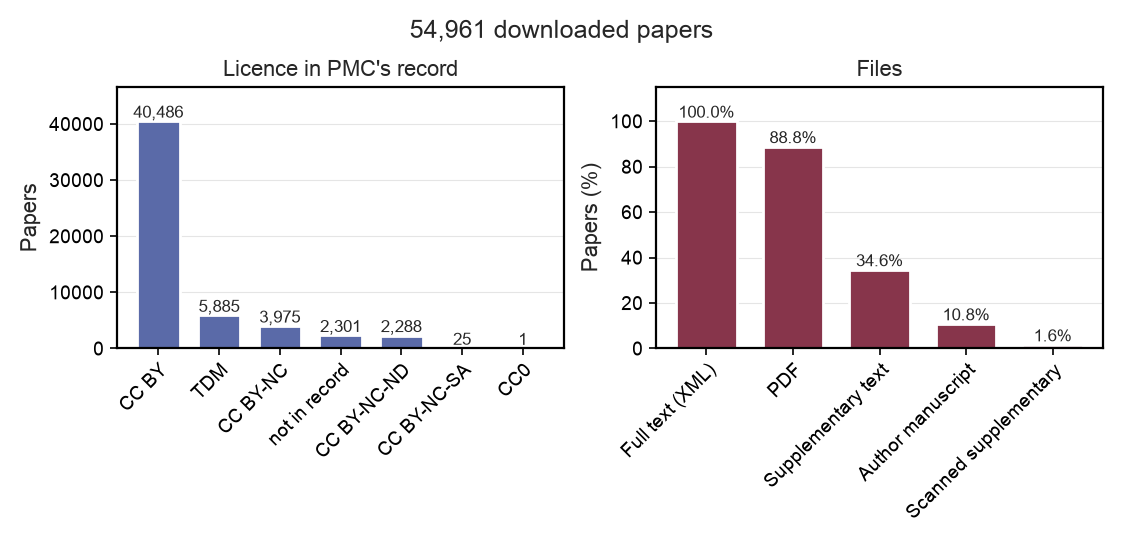
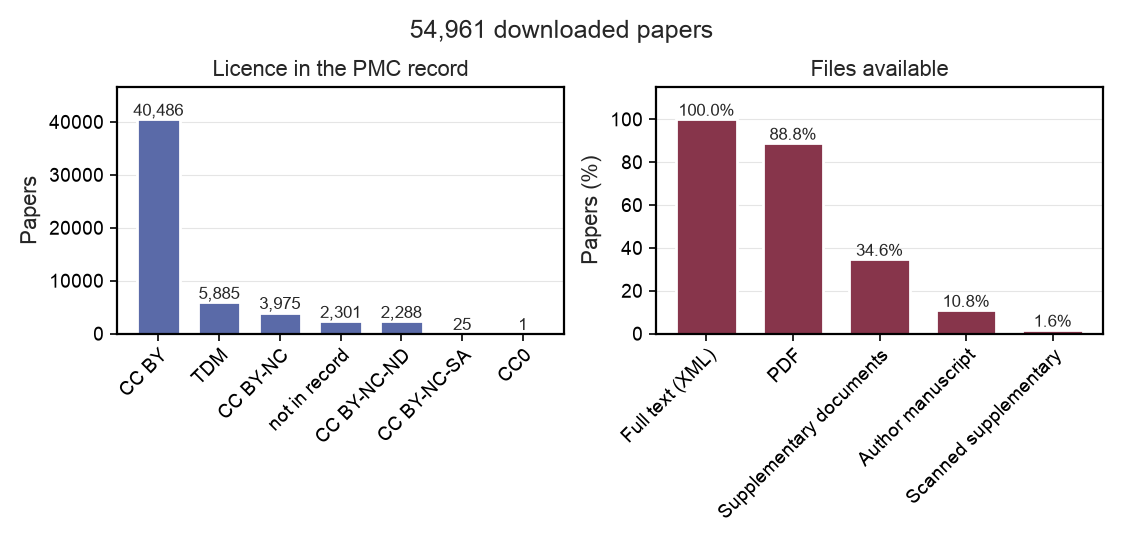
Updates

diff --git a/src/viz/templates/base.html b/src/viz/templates/base.html
@@ -26,7 +26,7 @@
       {% block body %}{% endblock %}
     </main>
     <footer>
-      <span>Made for OSI Hackathon 2026. Publisher structures, schemes and text via PubMed Central. CSD refcodes provide identifier links only.</span>
+      <span>Made for OSI Hackathon 2026.</span>
       <a class="github"
          href="https://github.com/alstonlo/clari-data-osi-hack"
          aria-label="TEXtal on GitHub"

diff --git a/scripts/analysis/s0_paper_plots.py b/scripts/analysis/s0_paper_plots.py
@@ -1,11 +1,12 @@
 import pathlib
+import textwrap
 
 import matplotlib.pyplot as plt
 import numpy as np
 import polars as pl
 from jsonargparse import auto_cli
 
-from dataset.csd import ACTA_E, merge_acta_e, nlm_abbrevs
+from dataset.csd import JOURNAL_NAMES, merge_acta_e
 from dataset.paths import DATA_DIR, REPO_ROOT
 from viz import theme
 
@@ -15,7 +16,7 @@ PLOTS = ["years", "downloads"]
 def main(
     papers: str = str(DATA_DIR / "papers"),
     out: str = str(REPO_ROOT / "assets"),
-    first_year: int = 2000,
+    first_year: int = 2008,
 ):
     """Plots the figures of the README, from `<papers>/metadata.parquet` and `parsed.parquet`.
 
@@ -23,13 +24,13 @@ def main(
     stacked by journal, and the licences and files of the downloaded papers.
 
     Args:
-        papers: The papers folder, with `metadata.parquet`, `parsed.parquet` and `raw/`.
+        papers: The papers folder, with `metadata.parquet` and `parsed.parquet`.
         out: The folder to write the figures to.
         first_year: The first year of the papers-per-year figure.
     """
     papers, out = pathlib.Path(papers), pathlib.Path(out)
     out.mkdir(parents=True, exist_ok=True)
-    meta = pl.read_parquet(papers / "metadata.parquet")
+    meta = pl.read_parquet(papers / "metadata.parquet").filter(pl.col("error").is_null())
     parsed = pl.read_parquet(papers / "parsed.parquet")
     theme.apply()
 
@@ -38,7 +39,6 @@ def main(
     all_papers = meta.select(merge_acta_e(pl.col("journal")), "year")
     journals = all_papers.group_by("journal").len("papers")
     top5 = journals.sort("papers", "journal", descending=True).head(5)["journal"].to_list()
-    abbrevs = nlm_abbrevs(meta, [j for j in top5 if j != ACTA_E], papers / "raw")
     group = pl.when(pl.col("journal").is_in(top5)).then("journal").otherwise(pl.lit("Other"))
     by_year = all_papers.filter(pl.col("year") >= first_year).group_by("year", group=group).len()
     by_year = by_year.pivot("group", index="year", values="len").fill_null(0).sort("year")
@@ -46,28 +46,29 @@ def main(
     fig, ax = plt.subplots(figsize=(theme.WIDTH, 2.4), layout="constrained")
     bottom = np.zeros(len(years))
     for name, color in zip(top5 + ["Other"], theme.PALETTE[:5] + ["0.7"]):
-        label = abbrevs.get(name, name)
+        label = JOURNAL_NAMES[name] if name in top5 else "Other journals"
+        label = "\n".join(textwrap.wrap(label, 24))
         ax.bar(years, by_year[name].to_numpy(), bottom=bottom, color=color, width=0.8, label=label)
         bottom += by_year[name].to_numpy()
-    ax.set_xlabel("Year")
+    ax.set_xticks(years[::2])
+    ax.set_xlabel("Publication year")
     ax.set_ylabel("Papers")
     ax.grid(axis="y", lw=0.4, alpha=0.5)
     ax.legend(loc="upper left", bbox_to_anchor=(1, 1), fontsize=6)
     left_out = (meta["year"] < first_year).sum()
-    ax.set_title(f"Papers per year ({left_out:,} papers before {first_year} not shown)")
+    ax.set_title(f"{len(meta):,} papers by year ({left_out:,} before {first_year} not shown)")
     theme.save(fig, out / "years")
 
-    # The licence and the files of the downloaded papers; papers with an error have no folder.
-    ok = meta.filter(pl.col("error").is_null())
-    licenses = ok.group_by(license=pl.col("license").fill_null("not in record")).len("papers")
+    # The licence and the files of the downloaded papers.
+    licenses = meta.group_by(license=pl.col("license").fill_null("not in record")).len("papers")
     licenses = licenses.sort("papers", descending=True)
     files = {
         "Full text (XML)": pl.col("files").list.contains("paper.xml"),
         "PDF": pl.col("files").list.contains("paper.pdf"),
-        "Supplementary text": pl.col("supplementary_names").list.len() > 0,
+        "Supplementary documents": pl.col("supplementary_names").list.len() > 0,
         "Author manuscript": pl.col("is_manuscript"),
     }
-    shares = [100 * ok.select(has.mean()).item() for has in files.values()]
+    shares = [100 * meta.select(has.mean()).item() for has in files.values()]
     shares.append(100 * parsed.select((pl.col("needs_ocr").list.len() > 0).mean()).item())
     labels = list(files) + ["Scanned supplementary"]
 
@@ -77,18 +78,18 @@ def main(
         axes[0].text(i, c, f"{c:,}", ha="center", va="bottom", fontsize=6)
     axes[0].set_ylim(top=1.15 * licenses["papers"].max())
     axes[0].set_ylabel("Papers")
-    axes[0].set_title("Licence in PMC's record")
+    axes[0].set_title("Licence in the PMC record")
     axes[1].bar(labels, shares, color=theme.ROSEWOOD[1], width=0.7)
     for i, v in enumerate(shares):
         axes[1].text(i, v, f"{v:.1f}%", ha="center", va="bottom", fontsize=6)
     axes[1].set_ylim(0, 115)
     axes[1].set_ylabel("Papers (%)")
-    axes[1].set_title("Files")
+    axes[1].set_title("Files available")
     for ax in axes:
         ax.tick_params(axis="x", rotation=45)
         plt.setp(ax.get_xticklabels(), ha="right", rotation_mode="anchor")
         ax.grid(axis="y", lw=0.4, alpha=0.5)
-    fig.suptitle(f"{len(ok):,} downloaded papers")
+    fig.suptitle(f"{len(meta):,} downloaded papers")
     theme.save(fig, out / "downloads")
 
 

diff --git a/scripts/analysis/s0_extraction_plots.py b/scripts/analysis/s0_extraction_plots.py
@@ -6,23 +6,27 @@ import numpy as np
 import polars as pl
 from jsonargparse import auto_cli
 
-from dataset.csd import ACTA_E, merge_acta_e, nlm_abbrevs
+from dataset.csd import JOURNAL_NAMES, merge_acta_e
 from dataset.paths import DATA_DIR, REPO_ROOT
 from viz import theme
 
 PLOTS = ["extraction", "records"]
-FIELDS = [
-    "synthesis",
-    "crystallisation",
-    "characterisation",
-    "solid_form",
-    "purpose_and_properties",
-    "summary",
-    "other_notes",
-]
 
-# The two extraction runs, keyed by prompt version; `s0_paper_plots.py` has the same layout.
-RUNS = {"v2-actae-anchored-1": "Acta E (section excerpts)", "v2": "Other journals (full text)"}
+# The paragraphs of a record, named as the README names them (the columns spell them the British
+# way). The `summary` and `other_notes` columns are not topics of the paper, so they are left out.
+FIELDS = {
+    "synthesis": "synthesis",
+    "crystallisation": "crystallization",
+    "characterisation": "characterization",
+    "solid_form": "solid form",
+    "purpose_and_properties": "purpose and properties",
+}
+
+# The two extraction runs, keyed by prompt version, and what each read of its papers.
+RUNS = {
+    "v2-actae-anchored-1": "Acta E (experimental sections)",
+    "v2": "Other journals (full text)",
+}
 
 
 def main(
@@ -69,9 +73,7 @@ def main(
         pl.len().alias("papers"), pl.col("run").sum()
     )
     journals = journals.sort("papers", "journal", descending=True).head(top)
-    named = [j for j in journals["journal"] if j != ACTA_E]
-    abbrevs = nlm_abbrevs(meta, named, papers / "raw") | {ACTA_E: ACTA_E}
-    labels = ["\n".join(textwrap.wrap(abbrevs[j], 22)) for j in journals["journal"]][::-1]
+    labels = ["\n".join(textwrap.wrap(JOURNAL_NAMES[j], 26)) for j in journals["journal"]][::-1]
     total, extracted = journals["papers"].to_numpy()[::-1], journals["run"].to_numpy()[::-1]
     fig, ax = plt.subplots(figsize=(theme.WIDTH, 3.1), layout="constrained")
     bars = {"height": 0.7, "linewidth": 0}
@@ -91,7 +93,7 @@ def main(
 
     # The records of each run: which paragraphs were filled, and how sure the matches are.
     ok = ext.filter(pl.col("extraction_status") == "ok")
-    filled = ok.group_by("prompt_version").agg(pl.col(FIELDS).is_not_null().mean() * 100)
+    filled = ok.group_by("prompt_version").agg(pl.col(*FIELDS).is_not_null().mean() * 100)
     confidence = (
         ext.group_by("prompt_version", "match_confidence")
         .len()
@@ -109,12 +111,12 @@ def main(
         row = filled.row(by_predicate=pl.col("prompt_version") == run, named=True)
         shares = [row[f] for f in FIELDS]
         axes[0].bar(x + 0.4 * i - 0.2, shares, width=0.4, color=theme.PALETTE[i], lw=0, label=label)
-    axes[0].set_xticks(x, [f.replace("_", " ") for f in FIELDS])
-    axes[0].set_ylim(0, 125)
+    axes[0].set_xticks(x, list(FIELDS.values()))
+    axes[0].set_ylim(0, 135)
     axes[0].set_yticks(range(0, 101, 20))
     axes[0].set_ylabel("Records (%)")
     axes[0].set_title("Filled paragraphs")
-    axes[0].legend(fontsize=6, loc="upper center", ncol=2)
+    axes[0].legend(fontsize=6, loc="upper right")
     bottom = np.zeros(len(RUNS))
     levels = {"high": theme.PERIWINKLE[3], "medium": theme.PERIWINKLE[1], "low": theme.BUTTER[0]}
     levels["null"] = "0.8"

diff --git a/src/dataset/csd.py b/src/dataset/csd.py
@@ -23,6 +23,21 @@ NLM_TA = re.compile(r'<journal-id journal-id-type="nlm-ta">([^<]+)<')
 # Crystallographic Communications), so the CSD lists it under two names.
 ACTA_E = "Acta Crystallogr E"
 
+# The ten largest journals of the corpus, named as the README names them; the CSD's names are
+# terse. The figures use these names, so a journal that enters the ten must be added here.
+JOURNAL_NAMES = {
+    ACTA_E: "Acta E",
+    "Chemical Science": "Chemical Science",
+    "J.Am.Chem.Soc.": "Journal of the American Chemical Society",
+    "Angew.Chem.,Int.Ed.": "Angewandte Chemie",
+    "Molecules": "Molecules",
+    "Nat.Commun.": "Nature Communications",
+    "RSC Advances": "RSC Advances",
+    "Inorg.Chem.": "Inorganic Chemistry",
+    "Chem.-Eur.J.": "Chemistry: A European Journal",
+    "ACS Omega": "ACS Omega",
+}
+
 
 def merge_acta_e(journal):
     """Replaces both CSD names of Acta Crystallographica Section E with `ACTA_E`, as `journal`."""
